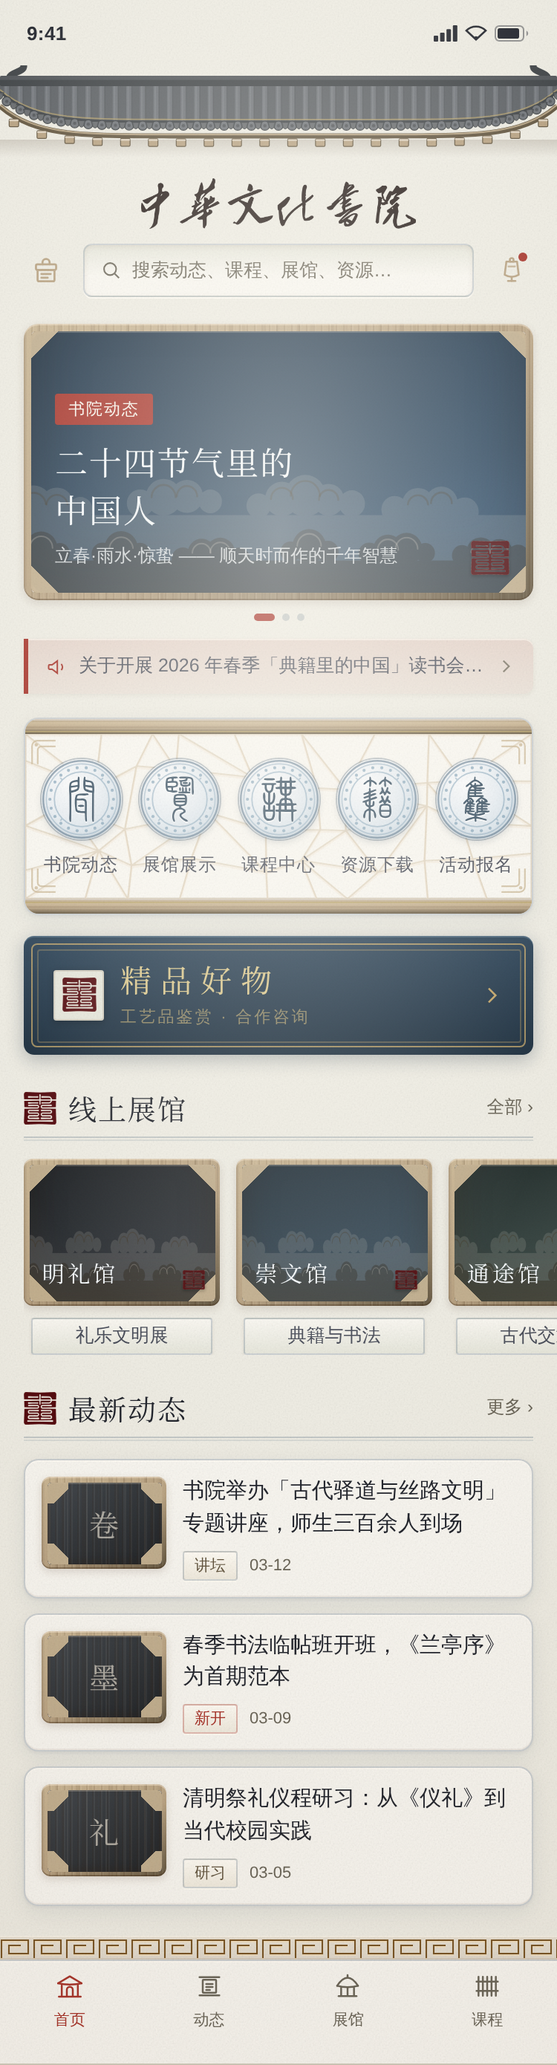
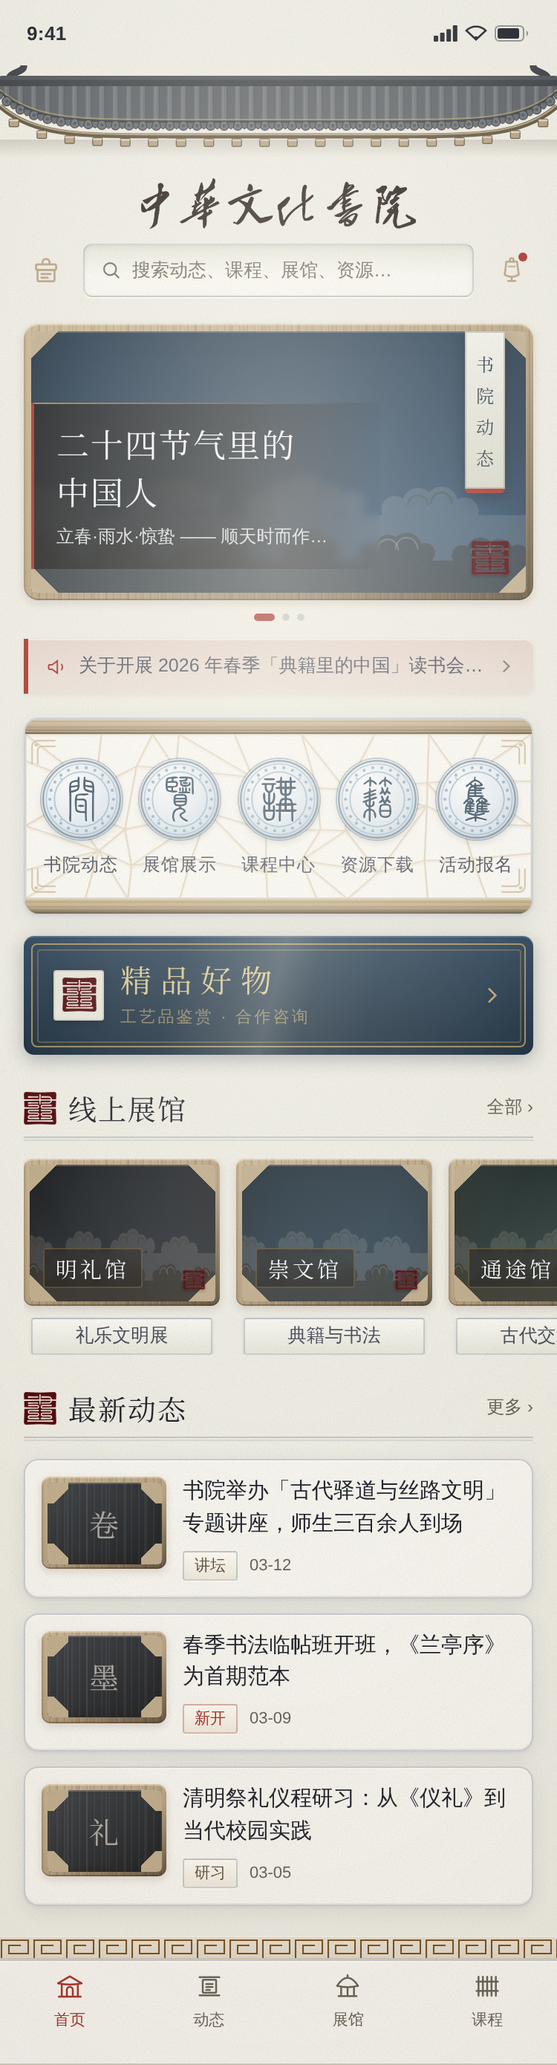
feat(design): 登录页屋顶拉开层次；加绢条/竖排题签/漆光；出「已上传封面图」对照页
1 登录页屋顶和背景糊在一起
   那组瓦色是当初配棕底时调的暖灰，这轮底色换成暖墨之后两者几乎同色。
   深色页上屋顶要比下面的"天"更亮、更偏青才分得开，并补了一道檐影。

2 新增三处点缀
   · 绢条：首图标题落在一条半透明的绢上，左侧一道朱边、上缘一道金线、
     右端向外化开。第一版做成四边齐整的半透明方块，压在照片上就是一块灰板；
     绢是"搭"上去的，右端虚掉才不像 UI 控件。
     它同时解决了真封面图上文字读不清的老问题。
   · 竖排题签：分类名竖写在一枚签上，末端一道朱砂。签在画心之上、尺寸很小，
     封面图再满也压不住。
   · 漆光：匾额加一道斜掠的反光，静态图里也能看出"黑漆"和"哑光木板"的区别。

3 新增 home-cover.html：同一页，画心里换成真封面图（程序生成的占位照片）
   这是为了回答"上传封面图之后设计会不会被全盖住"——有图有真相。
   被盖住的只有画心里的祥云与木纹底；裱边、四角包角、右下压角印、
   竖排题签、标题绢条、题签签条都还在。

过程中修掉三个真 bug：
· .banner > *:not(svg){position:relative} 写在后面，把题签的 position:absolute
  覆盖掉了，题签被挤成一条横贯的灰带。该规则已无用，删除。
· 画心里放了封面图时，内层的 .banner/.hall-cover/.art-hero/.nthumb 仍是不透明底，
  把照片整个盖住。改为有封面图时内层透明，并补一层暗角。
· 题签原在左上，和绢条重叠被压掉两个字；移到右上。
  末端的朱砂圆点在 vertical-rl 下跑到了文字上方，改用 border-bottom。

馆名顺带加了底衬——文字压在照片上本来就必须自带底，不管有没有封面图。

Claude-Session: https://claude.ai/code/session_01JpdC71poBgzCMJ9jsM6B8r

diff --git a/design/demo/v2/home-cover.html b/design/demo/v2/home-cover.html
@@ -3,12 +3,12 @@
 <head>
 <meta charset="utf-8">
 <meta name="viewport" content="width=375, initial-scale=1">
-<title>中华文化书院 · 首页（靛青备选）</title>
+<title>中华文化书院 · 首页（已上传封面图）</title>
 <link rel="stylesheet" href="shuyuan.css">
 </head>
 <body>
 
-<div class="phone theme-indigo" id="page">
+<div class="phone" id="page">
 
   <!-- 状态栏 -->
   <div class="statusbar">
@@ -347,7 +347,7 @@
   <div class="wrap">
 
     <!-- 首图 -->
-    <div class="mount mount--lg" style="margin-top:14px"><div class="mount-art"><div class="card banner">
+    <div class="mount mount--lg" style="margin-top:14px"><div class="mount-art"><img class="cover" src="sample/cover-hero.jpg" alt=""><div class="card banner">
       <!-- GEN:yun -->
     <svg class="shan" viewBox="0 0 375 120" preserveAspectRatio="none" aria-hidden="true"><g fill="#F6EEDF" opacity=".13"><rect x="-20" y="62.4" width="415" height="77.6"/><circle cx="-15.9" cy="59.4" r="8.5"/><circle cx="1.8" cy="54.2" r="13.8"/><circle cx="19.5" cy="54.5" r="12.5"/><circle cx="37.2" cy="58.4" r="9.4"/><circle cx="82.7" cy="53.6" r="10.2"/><circle cx="100.4" cy="49.2" r="13.6"/><circle cx="118.1" cy="48.5" r="12.2"/><circle cx="135.8" cy="52.2" r="8.8"/><circle cx="172.4" cy="55.5" r="9.2"/><circle cx="190.1" cy="50.5" r="12.8"/><circle cx="207.8" cy="48.1" r="15.5"/><circle cx="225.5" cy="51.1" r="11.8"/><circle cx="243.2" cy="53.9" r="9.9"/><circle cx="275.6" cy="58.3" r="10.1"/><circle cx="293.3" cy="54.5" r="12.2"/><circle cx="311.0" cy="53.6" r="12.4"/><circle cx="328.7" cy="59.9" r="10.6"/><circle cx="385.4" cy="55.8" r="8.5"/><circle cx="403.1" cy="49.6" r="13.6"/><circle cx="420.8" cy="56.4" r="9.5"/></g><path d="M-7.4,54.2 A9.3,9.3 0 0,1 11.1,54.2" fill="none" stroke="rgba(62,42,16,.30)" stroke-width="1.43" stroke-linecap="round" opacity=".85"/><path d="M11.6,54.5 A8.0,8.0 0 0,1 27.5,54.5" fill="none" stroke="rgba(62,42,16,.30)" stroke-width="1.43" stroke-linecap="round" opacity=".85"/><path d="M91.3,49.2 A9.1,9.1 0 0,1 109.5,49.2" fill="none" stroke="rgba(62,42,16,.30)" stroke-width="1.43" stroke-linecap="round" opacity=".85"/><path d="M110.4,48.5 A7.7,7.7 0 0,1 125.8,48.5" fill="none" stroke="rgba(62,42,16,.30)" stroke-width="1.43" stroke-linecap="round" opacity=".85"/><path d="M181.8,50.5 A8.3,8.3 0 0,1 198.4,50.5" fill="none" stroke="rgba(62,42,16,.30)" stroke-width="1.43" stroke-linecap="round" opacity=".85"/><path d="M196.8,48.1 A11.0,11.0 0 0,1 218.8,48.1" fill="none" stroke="rgba(62,42,16,.30)" stroke-width="1.43" stroke-linecap="round" opacity=".85"/><path d="M218.2,51.1 A7.3,7.3 0 0,1 232.8,51.1" fill="none" stroke="rgba(62,42,16,.30)" stroke-width="1.43" stroke-linecap="round" opacity=".85"/><path d="M285.6,54.5 A7.7,7.7 0 0,1 300.9,54.5" fill="none" stroke="rgba(62,42,16,.30)" stroke-width="1.43" stroke-linecap="round" opacity=".85"/><path d="M303.1,53.6 A7.9,7.9 0 0,1 318.9,53.6" fill="none" stroke="rgba(62,42,16,.30)" stroke-width="1.43" stroke-linecap="round" opacity=".85"/><path d="M394.0,49.6 A9.1,9.1 0 0,1 412.1,49.6" fill="none" stroke="rgba(62,42,16,.30)" stroke-width="1.43" stroke-linecap="round" opacity=".85"/><g fill="#231708" opacity=".30"><rect x="-20" y="96.0" width="415" height="44.0"/><circle cx="-6.6" cy="90.7" r="7.4"/><circle cx="7.6" cy="86.7" r="12.2"/><circle cx="21.7" cy="90.6" r="7.5"/><circle cx="54.1" cy="91.1" r="8.3"/><circle cx="68.2" cy="86.8" r="12.6"/><circle cx="82.4" cy="90.8" r="7.9"/><circle cx="115.0" cy="94.8" r="8.5"/><circle cx="129.2" cy="90.4" r="10.5"/><circle cx="143.4" cy="90.3" r="11.2"/><circle cx="157.5" cy="94.9" r="8.4"/><circle cx="196.6" cy="89.5" r="7.6"/><circle cx="210.8" cy="85.3" r="12.6"/><circle cx="224.9" cy="89.5" r="8.1"/><circle cx="256.3" cy="90.9" r="8.2"/><circle cx="270.5" cy="88.2" r="11.4"/><circle cx="284.6" cy="87.4" r="11.9"/><circle cx="298.8" cy="90.4" r="7.3"/><circle cx="326.6" cy="92.2" r="7.6"/><circle cx="340.8" cy="89.8" r="10.9"/><circle cx="354.9" cy="90.3" r="10.2"/><circle cx="369.1" cy="92.9" r="8.6"/></g><path d="M-1.0,86.7 A8.6,8.6 0 0,1 16.2,86.7" fill="none" stroke="rgba(246,238,223,.26)" stroke-width="1.14" stroke-linecap="round" opacity=".85"/><path d="M59.3,86.8 A9.0,9.0 0 0,1 77.2,86.8" fill="none" stroke="rgba(246,238,223,.26)" stroke-width="1.14" stroke-linecap="round" opacity=".85"/><path d="M122.2,90.4 A6.9,6.9 0 0,1 136.1,90.4" fill="none" stroke="rgba(246,238,223,.26)" stroke-width="1.14" stroke-linecap="round" opacity=".85"/><path d="M135.7,90.3 A7.6,7.6 0 0,1 151.0,90.3" fill="none" stroke="rgba(246,238,223,.26)" stroke-width="1.14" stroke-linecap="round" opacity=".85"/><path d="M201.7,85.3 A9.0,9.0 0 0,1 219.8,85.3" fill="none" stroke="rgba(246,238,223,.26)" stroke-width="1.14" stroke-linecap="round" opacity=".85"/><path d="M262.6,88.2 A7.8,7.8 0 0,1 278.3,88.2" fill="none" stroke="rgba(246,238,223,.26)" stroke-width="1.14" stroke-linecap="round" opacity=".85"/><path d="M276.3,87.4 A8.3,8.3 0 0,1 293.0,87.4" fill="none" stroke="rgba(246,238,223,.26)" stroke-width="1.14" stroke-linecap="round" opacity=".85"/><path d="M333.5,89.8 A7.3,7.3 0 0,1 348.0,89.8" fill="none" stroke="rgba(246,238,223,.26)" stroke-width="1.14" stroke-linecap="round" opacity=".85"/><path d="M348.3,90.3 A6.6,6.6 0 0,1 361.6,90.3" fill="none" stroke="rgba(246,238,223,.26)" stroke-width="1.14" stroke-linecap="round" opacity=".85"/></svg>
     <!-- /GEN:yun -->
@@ -587,7 +587,7 @@
     <div class="sec-rule"><i></i><i></i></div>
     <div class="halls">
       <div class="hall">
-        <div class="mount"><div class="mount-art"><div class="hall-cover h1">
+        <div class="mount"><div class="mount-art"><img class="cover" src="sample/cover-hall.jpg" alt=""><div class="hall-cover h1">
           <!-- GEN:yun -->
     <svg class="shan" viewBox="0 0 375 120" preserveAspectRatio="none" aria-hidden="true"><g fill="#F6EEDF" opacity=".13"><rect x="-20" y="62.4" width="415" height="77.6"/><circle cx="-15.9" cy="59.4" r="8.5"/><circle cx="1.8" cy="54.2" r="13.8"/><circle cx="19.5" cy="54.5" r="12.5"/><circle cx="37.2" cy="58.4" r="9.4"/><circle cx="82.7" cy="53.6" r="10.2"/><circle cx="100.4" cy="49.2" r="13.6"/><circle cx="118.1" cy="48.5" r="12.2"/><circle cx="135.8" cy="52.2" r="8.8"/><circle cx="172.4" cy="55.5" r="9.2"/><circle cx="190.1" cy="50.5" r="12.8"/><circle cx="207.8" cy="48.1" r="15.5"/><circle cx="225.5" cy="51.1" r="11.8"/><circle cx="243.2" cy="53.9" r="9.9"/><circle cx="275.6" cy="58.3" r="10.1"/><circle cx="293.3" cy="54.5" r="12.2"/><circle cx="311.0" cy="53.6" r="12.4"/><circle cx="328.7" cy="59.9" r="10.6"/><circle cx="385.4" cy="55.8" r="8.5"/><circle cx="403.1" cy="49.6" r="13.6"/><circle cx="420.8" cy="56.4" r="9.5"/></g><path d="M-7.4,54.2 A9.3,9.3 0 0,1 11.1,54.2" fill="none" stroke="rgba(62,42,16,.30)" stroke-width="1.43" stroke-linecap="round" opacity=".85"/><path d="M11.6,54.5 A8.0,8.0 0 0,1 27.5,54.5" fill="none" stroke="rgba(62,42,16,.30)" stroke-width="1.43" stroke-linecap="round" opacity=".85"/><path d="M91.3,49.2 A9.1,9.1 0 0,1 109.5,49.2" fill="none" stroke="rgba(62,42,16,.30)" stroke-width="1.43" stroke-linecap="round" opacity=".85"/><path d="M110.4,48.5 A7.7,7.7 0 0,1 125.8,48.5" fill="none" stroke="rgba(62,42,16,.30)" stroke-width="1.43" stroke-linecap="round" opacity=".85"/><path d="M181.8,50.5 A8.3,8.3 0 0,1 198.4,50.5" fill="none" stroke="rgba(62,42,16,.30)" stroke-width="1.43" stroke-linecap="round" opacity=".85"/><path d="M196.8,48.1 A11.0,11.0 0 0,1 218.8,48.1" fill="none" stroke="rgba(62,42,16,.30)" stroke-width="1.43" stroke-linecap="round" opacity=".85"/><path d="M218.2,51.1 A7.3,7.3 0 0,1 232.8,51.1" fill="none" stroke="rgba(62,42,16,.30)" stroke-width="1.43" stroke-linecap="round" opacity=".85"/><path d="M285.6,54.5 A7.7,7.7 0 0,1 300.9,54.5" fill="none" stroke="rgba(62,42,16,.30)" stroke-width="1.43" stroke-linecap="round" opacity=".85"/><path d="M303.1,53.6 A7.9,7.9 0 0,1 318.9,53.6" fill="none" stroke="rgba(62,42,16,.30)" stroke-width="1.43" stroke-linecap="round" opacity=".85"/><path d="M394.0,49.6 A9.1,9.1 0 0,1 412.1,49.6" fill="none" stroke="rgba(62,42,16,.30)" stroke-width="1.43" stroke-linecap="round" opacity=".85"/><g fill="#231708" opacity=".30"><rect x="-20" y="96.0" width="415" height="44.0"/><circle cx="-6.6" cy="90.7" r="7.4"/><circle cx="7.6" cy="86.7" r="12.2"/><circle cx="21.7" cy="90.6" r="7.5"/><circle cx="54.1" cy="91.1" r="8.3"/><circle cx="68.2" cy="86.8" r="12.6"/><circle cx="82.4" cy="90.8" r="7.9"/><circle cx="115.0" cy="94.8" r="8.5"/><circle cx="129.2" cy="90.4" r="10.5"/><circle cx="143.4" cy="90.3" r="11.2"/><circle cx="157.5" cy="94.9" r="8.4"/><circle cx="196.6" cy="89.5" r="7.6"/><circle cx="210.8" cy="85.3" r="12.6"/><circle cx="224.9" cy="89.5" r="8.1"/><circle cx="256.3" cy="90.9" r="8.2"/><circle cx="270.5" cy="88.2" r="11.4"/><circle cx="284.6" cy="87.4" r="11.9"/><circle cx="298.8" cy="90.4" r="7.3"/><circle cx="326.6" cy="92.2" r="7.6"/><circle cx="340.8" cy="89.8" r="10.9"/><circle cx="354.9" cy="90.3" r="10.2"/><circle cx="369.1" cy="92.9" r="8.6"/></g><path d="M-1.0,86.7 A8.6,8.6 0 0,1 16.2,86.7" fill="none" stroke="rgba(246,238,223,.26)" stroke-width="1.14" stroke-linecap="round" opacity=".85"/><path d="M59.3,86.8 A9.0,9.0 0 0,1 77.2,86.8" fill="none" stroke="rgba(246,238,223,.26)" stroke-width="1.14" stroke-linecap="round" opacity=".85"/><path d="M122.2,90.4 A6.9,6.9 0 0,1 136.1,90.4" fill="none" stroke="rgba(246,238,223,.26)" stroke-width="1.14" stroke-linecap="round" opacity=".85"/><path d="M135.7,90.3 A7.6,7.6 0 0,1 151.0,90.3" fill="none" stroke="rgba(246,238,223,.26)" stroke-width="1.14" stroke-linecap="round" opacity=".85"/><path d="M201.7,85.3 A9.0,9.0 0 0,1 219.8,85.3" fill="none" stroke="rgba(246,238,223,.26)" stroke-width="1.14" stroke-linecap="round" opacity=".85"/><path d="M262.6,88.2 A7.8,7.8 0 0,1 278.3,88.2" fill="none" stroke="rgba(246,238,223,.26)" stroke-width="1.14" stroke-linecap="round" opacity=".85"/><path d="M276.3,87.4 A8.3,8.3 0 0,1 293.0,87.4" fill="none" stroke="rgba(246,238,223,.26)" stroke-width="1.14" stroke-linecap="round" opacity=".85"/><path d="M333.5,89.8 A7.3,7.3 0 0,1 348.0,89.8" fill="none" stroke="rgba(246,238,223,.26)" stroke-width="1.14" stroke-linecap="round" opacity=".85"/><path d="M348.3,90.3 A6.6,6.6 0 0,1 361.6,90.3" fill="none" stroke="rgba(246,238,223,.26)" stroke-width="1.14" stroke-linecap="round" opacity=".85"/></svg>
     <!-- /GEN:yun -->
@@ -596,7 +596,7 @@
         <div class="tiqian">礼乐文明展</div>
       </div>
       <div class="hall">
-        <div class="mount"><div class="mount-art"><div class="hall-cover h2">
+        <div class="mount"><div class="mount-art"><img class="cover" src="sample/cover-hall.jpg" alt=""><div class="hall-cover h2">
           <!-- GEN:yun -->
     <svg class="shan" viewBox="0 0 375 120" preserveAspectRatio="none" aria-hidden="true"><g fill="#F6EEDF" opacity=".13"><rect x="-20" y="62.4" width="415" height="77.6"/><circle cx="-15.9" cy="59.4" r="8.5"/><circle cx="1.8" cy="54.2" r="13.8"/><circle cx="19.5" cy="54.5" r="12.5"/><circle cx="37.2" cy="58.4" r="9.4"/><circle cx="82.7" cy="53.6" r="10.2"/><circle cx="100.4" cy="49.2" r="13.6"/><circle cx="118.1" cy="48.5" r="12.2"/><circle cx="135.8" cy="52.2" r="8.8"/><circle cx="172.4" cy="55.5" r="9.2"/><circle cx="190.1" cy="50.5" r="12.8"/><circle cx="207.8" cy="48.1" r="15.5"/><circle cx="225.5" cy="51.1" r="11.8"/><circle cx="243.2" cy="53.9" r="9.9"/><circle cx="275.6" cy="58.3" r="10.1"/><circle cx="293.3" cy="54.5" r="12.2"/><circle cx="311.0" cy="53.6" r="12.4"/><circle cx="328.7" cy="59.9" r="10.6"/><circle cx="385.4" cy="55.8" r="8.5"/><circle cx="403.1" cy="49.6" r="13.6"/><circle cx="420.8" cy="56.4" r="9.5"/></g><path d="M-7.4,54.2 A9.3,9.3 0 0,1 11.1,54.2" fill="none" stroke="rgba(62,42,16,.30)" stroke-width="1.43" stroke-linecap="round" opacity=".85"/><path d="M11.6,54.5 A8.0,8.0 0 0,1 27.5,54.5" fill="none" stroke="rgba(62,42,16,.30)" stroke-width="1.43" stroke-linecap="round" opacity=".85"/><path d="M91.3,49.2 A9.1,9.1 0 0,1 109.5,49.2" fill="none" stroke="rgba(62,42,16,.30)" stroke-width="1.43" stroke-linecap="round" opacity=".85"/><path d="M110.4,48.5 A7.7,7.7 0 0,1 125.8,48.5" fill="none" stroke="rgba(62,42,16,.30)" stroke-width="1.43" stroke-linecap="round" opacity=".85"/><path d="M181.8,50.5 A8.3,8.3 0 0,1 198.4,50.5" fill="none" stroke="rgba(62,42,16,.30)" stroke-width="1.43" stroke-linecap="round" opacity=".85"/><path d="M196.8,48.1 A11.0,11.0 0 0,1 218.8,48.1" fill="none" stroke="rgba(62,42,16,.30)" stroke-width="1.43" stroke-linecap="round" opacity=".85"/><path d="M218.2,51.1 A7.3,7.3 0 0,1 232.8,51.1" fill="none" stroke="rgba(62,42,16,.30)" stroke-width="1.43" stroke-linecap="round" opacity=".85"/><path d="M285.6,54.5 A7.7,7.7 0 0,1 300.9,54.5" fill="none" stroke="rgba(62,42,16,.30)" stroke-width="1.43" stroke-linecap="round" opacity=".85"/><path d="M303.1,53.6 A7.9,7.9 0 0,1 318.9,53.6" fill="none" stroke="rgba(62,42,16,.30)" stroke-width="1.43" stroke-linecap="round" opacity=".85"/><path d="M394.0,49.6 A9.1,9.1 0 0,1 412.1,49.6" fill="none" stroke="rgba(62,42,16,.30)" stroke-width="1.43" stroke-linecap="round" opacity=".85"/><g fill="#231708" opacity=".30"><rect x="-20" y="96.0" width="415" height="44.0"/><circle cx="-6.6" cy="90.7" r="7.4"/><circle cx="7.6" cy="86.7" r="12.2"/><circle cx="21.7" cy="90.6" r="7.5"/><circle cx="54.1" cy="91.1" r="8.3"/><circle cx="68.2" cy="86.8" r="12.6"/><circle cx="82.4" cy="90.8" r="7.9"/><circle cx="115.0" cy="94.8" r="8.5"/><circle cx="129.2" cy="90.4" r="10.5"/><circle cx="143.4" cy="90.3" r="11.2"/><circle cx="157.5" cy="94.9" r="8.4"/><circle cx="196.6" cy="89.5" r="7.6"/><circle cx="210.8" cy="85.3" r="12.6"/><circle cx="224.9" cy="89.5" r="8.1"/><circle cx="256.3" cy="90.9" r="8.2"/><circle cx="270.5" cy="88.2" r="11.4"/><circle cx="284.6" cy="87.4" r="11.9"/><circle cx="298.8" cy="90.4" r="7.3"/><circle cx="326.6" cy="92.2" r="7.6"/><circle cx="340.8" cy="89.8" r="10.9"/><circle cx="354.9" cy="90.3" r="10.2"/><circle cx="369.1" cy="92.9" r="8.6"/></g><path d="M-1.0,86.7 A8.6,8.6 0 0,1 16.2,86.7" fill="none" stroke="rgba(246,238,223,.26)" stroke-width="1.14" stroke-linecap="round" opacity=".85"/><path d="M59.3,86.8 A9.0,9.0 0 0,1 77.2,86.8" fill="none" stroke="rgba(246,238,223,.26)" stroke-width="1.14" stroke-linecap="round" opacity=".85"/><path d="M122.2,90.4 A6.9,6.9 0 0,1 136.1,90.4" fill="none" stroke="rgba(246,238,223,.26)" stroke-width="1.14" stroke-linecap="round" opacity=".85"/><path d="M135.7,90.3 A7.6,7.6 0 0,1 151.0,90.3" fill="none" stroke="rgba(246,238,223,.26)" stroke-width="1.14" stroke-linecap="round" opacity=".85"/><path d="M201.7,85.3 A9.0,9.0 0 0,1 219.8,85.3" fill="none" stroke="rgba(246,238,223,.26)" stroke-width="1.14" stroke-linecap="round" opacity=".85"/><path d="M262.6,88.2 A7.8,7.8 0 0,1 278.3,88.2" fill="none" stroke="rgba(246,238,223,.26)" stroke-width="1.14" stroke-linecap="round" opacity=".85"/><path d="M276.3,87.4 A8.3,8.3 0 0,1 293.0,87.4" fill="none" stroke="rgba(246,238,223,.26)" stroke-width="1.14" stroke-linecap="round" opacity=".85"/><path d="M333.5,89.8 A7.3,7.3 0 0,1 348.0,89.8" fill="none" stroke="rgba(246,238,223,.26)" stroke-width="1.14" stroke-linecap="round" opacity=".85"/><path d="M348.3,90.3 A6.6,6.6 0 0,1 361.6,90.3" fill="none" stroke="rgba(246,238,223,.26)" stroke-width="1.14" stroke-linecap="round" opacity=".85"/></svg>
     <!-- /GEN:yun -->
@@ -605,7 +605,7 @@
         <div class="tiqian">典籍与书法</div>
       </div>
       <div class="hall">
-        <div class="mount"><div class="mount-art"><div class="hall-cover h3">
+        <div class="mount"><div class="mount-art"><img class="cover" src="sample/cover-hall.jpg" alt=""><div class="hall-cover h3">
           <!-- GEN:yun -->
     <svg class="shan" viewBox="0 0 375 120" preserveAspectRatio="none" aria-hidden="true"><g fill="#F6EEDF" opacity=".13"><rect x="-20" y="62.4" width="415" height="77.6"/><circle cx="-15.9" cy="59.4" r="8.5"/><circle cx="1.8" cy="54.2" r="13.8"/><circle cx="19.5" cy="54.5" r="12.5"/><circle cx="37.2" cy="58.4" r="9.4"/><circle cx="82.7" cy="53.6" r="10.2"/><circle cx="100.4" cy="49.2" r="13.6"/><circle cx="118.1" cy="48.5" r="12.2"/><circle cx="135.8" cy="52.2" r="8.8"/><circle cx="172.4" cy="55.5" r="9.2"/><circle cx="190.1" cy="50.5" r="12.8"/><circle cx="207.8" cy="48.1" r="15.5"/><circle cx="225.5" cy="51.1" r="11.8"/><circle cx="243.2" cy="53.9" r="9.9"/><circle cx="275.6" cy="58.3" r="10.1"/><circle cx="293.3" cy="54.5" r="12.2"/><circle cx="311.0" cy="53.6" r="12.4"/><circle cx="328.7" cy="59.9" r="10.6"/><circle cx="385.4" cy="55.8" r="8.5"/><circle cx="403.1" cy="49.6" r="13.6"/><circle cx="420.8" cy="56.4" r="9.5"/></g><path d="M-7.4,54.2 A9.3,9.3 0 0,1 11.1,54.2" fill="none" stroke="rgba(62,42,16,.30)" stroke-width="1.43" stroke-linecap="round" opacity=".85"/><path d="M11.6,54.5 A8.0,8.0 0 0,1 27.5,54.5" fill="none" stroke="rgba(62,42,16,.30)" stroke-width="1.43" stroke-linecap="round" opacity=".85"/><path d="M91.3,49.2 A9.1,9.1 0 0,1 109.5,49.2" fill="none" stroke="rgba(62,42,16,.30)" stroke-width="1.43" stroke-linecap="round" opacity=".85"/><path d="M110.4,48.5 A7.7,7.7 0 0,1 125.8,48.5" fill="none" stroke="rgba(62,42,16,.30)" stroke-width="1.43" stroke-linecap="round" opacity=".85"/><path d="M181.8,50.5 A8.3,8.3 0 0,1 198.4,50.5" fill="none" stroke="rgba(62,42,16,.30)" stroke-width="1.43" stroke-linecap="round" opacity=".85"/><path d="M196.8,48.1 A11.0,11.0 0 0,1 218.8,48.1" fill="none" stroke="rgba(62,42,16,.30)" stroke-width="1.43" stroke-linecap="round" opacity=".85"/><path d="M218.2,51.1 A7.3,7.3 0 0,1 232.8,51.1" fill="none" stroke="rgba(62,42,16,.30)" stroke-width="1.43" stroke-linecap="round" opacity=".85"/><path d="M285.6,54.5 A7.7,7.7 0 0,1 300.9,54.5" fill="none" stroke="rgba(62,42,16,.30)" stroke-width="1.43" stroke-linecap="round" opacity=".85"/><path d="M303.1,53.6 A7.9,7.9 0 0,1 318.9,53.6" fill="none" stroke="rgba(62,42,16,.30)" stroke-width="1.43" stroke-linecap="round" opacity=".85"/><path d="M394.0,49.6 A9.1,9.1 0 0,1 412.1,49.6" fill="none" stroke="rgba(62,42,16,.30)" stroke-width="1.43" stroke-linecap="round" opacity=".85"/><g fill="#231708" opacity=".30"><rect x="-20" y="96.0" width="415" height="44.0"/><circle cx="-6.6" cy="90.7" r="7.4"/><circle cx="7.6" cy="86.7" r="12.2"/><circle cx="21.7" cy="90.6" r="7.5"/><circle cx="54.1" cy="91.1" r="8.3"/><circle cx="68.2" cy="86.8" r="12.6"/><circle cx="82.4" cy="90.8" r="7.9"/><circle cx="115.0" cy="94.8" r="8.5"/><circle cx="129.2" cy="90.4" r="10.5"/><circle cx="143.4" cy="90.3" r="11.2"/><circle cx="157.5" cy="94.9" r="8.4"/><circle cx="196.6" cy="89.5" r="7.6"/><circle cx="210.8" cy="85.3" r="12.6"/><circle cx="224.9" cy="89.5" r="8.1"/><circle cx="256.3" cy="90.9" r="8.2"/><circle cx="270.5" cy="88.2" r="11.4"/><circle cx="284.6" cy="87.4" r="11.9"/><circle cx="298.8" cy="90.4" r="7.3"/><circle cx="326.6" cy="92.2" r="7.6"/><circle cx="340.8" cy="89.8" r="10.9"/><circle cx="354.9" cy="90.3" r="10.2"/><circle cx="369.1" cy="92.9" r="8.6"/></g><path d="M-1.0,86.7 A8.6,8.6 0 0,1 16.2,86.7" fill="none" stroke="rgba(246,238,223,.26)" stroke-width="1.14" stroke-linecap="round" opacity=".85"/><path d="M59.3,86.8 A9.0,9.0 0 0,1 77.2,86.8" fill="none" stroke="rgba(246,238,223,.26)" stroke-width="1.14" stroke-linecap="round" opacity=".85"/><path d="M122.2,90.4 A6.9,6.9 0 0,1 136.1,90.4" fill="none" stroke="rgba(246,238,223,.26)" stroke-width="1.14" stroke-linecap="round" opacity=".85"/><path d="M135.7,90.3 A7.6,7.6 0 0,1 151.0,90.3" fill="none" stroke="rgba(246,238,223,.26)" stroke-width="1.14" stroke-linecap="round" opacity=".85"/><path d="M201.7,85.3 A9.0,9.0 0 0,1 219.8,85.3" fill="none" stroke="rgba(246,238,223,.26)" stroke-width="1.14" stroke-linecap="round" opacity=".85"/><path d="M262.6,88.2 A7.8,7.8 0 0,1 278.3,88.2" fill="none" stroke="rgba(246,238,223,.26)" stroke-width="1.14" stroke-linecap="round" opacity=".85"/><path d="M276.3,87.4 A8.3,8.3 0 0,1 293.0,87.4" fill="none" stroke="rgba(246,238,223,.26)" stroke-width="1.14" stroke-linecap="round" opacity=".85"/><path d="M333.5,89.8 A7.3,7.3 0 0,1 348.0,89.8" fill="none" stroke="rgba(246,238,223,.26)" stroke-width="1.14" stroke-linecap="round" opacity=".85"/><path d="M348.3,90.3 A6.6,6.6 0 0,1 361.6,90.3" fill="none" stroke="rgba(246,238,223,.26)" stroke-width="1.14" stroke-linecap="round" opacity=".85"/></svg>
     <!-- /GEN:yun -->
@@ -623,21 +623,21 @@
     <div class="sec-rule"><i></i><i></i></div>
 
     <div class="card ncard">
-      <div class="mount mount--sm" style="width:84px;height:62px;flex:none"><div class="mount-art"><div class="nthumb song">卷</div></div></div>
+      <div class="mount mount--sm" style="width:84px;height:62px;flex:none"><div class="mount-art"><img class="cover" src="sample/cover-news.jpg" alt=""><div class="nthumb song" style="background:transparent;color:transparent">卷</div></div></div>
       <div class="nbody">
         <div class="ntitle">书院举办「古代驿道与丝路文明」专题讲座，师生三百余人到场</div>
         <div class="nmeta"><span class="pill">讲坛</span><span class="ndate">03-12</span></div>
       </div>
     </div>
     <div class="card ncard">
-      <div class="mount mount--sm" style="width:84px;height:62px;flex:none"><div class="mount-art"><div class="nthumb song">墨</div></div></div>
+      <div class="mount mount--sm" style="width:84px;height:62px;flex:none"><div class="mount-art"><img class="cover" src="sample/cover-news.jpg" alt=""><div class="nthumb song" style="background:transparent;color:transparent">墨</div></div></div>
       <div class="nbody">
         <div class="ntitle">春季书法临帖班开班，《兰亭序》为首期范本</div>
         <div class="nmeta"><span class="pill zhu">新开</span><span class="ndate">03-09</span></div>
       </div>
     </div>
     <div class="card ncard">
-      <div class="mount mount--sm" style="width:84px;height:62px;flex:none"><div class="mount-art"><div class="nthumb song">礼</div></div></div>
+      <div class="mount mount--sm" style="width:84px;height:62px;flex:none"><div class="mount-art"><img class="cover" src="sample/cover-news.jpg" alt=""><div class="nthumb song" style="background:transparent;color:transparent">礼</div></div></div>
       <div class="nbody">
         <div class="ntitle">清明祭礼仪程研习：从《仪礼》到当代校园实践</div>
         <div class="nmeta"><span class="pill">研习</span><span class="ndate">03-05</span></div>
@@ -670,9 +670,10 @@
 </div>
 
 <div class="note">
-  <b>备选：靛青</b> —— 骨架、版式、间距、字号<b>一个字都没改</b>，只换了「木」这一族颜色（栗褐 → 靛青）。<br>
-  拿它和主推方向对照着看：如果你觉得靛青更雅，那就把主色换掉；如果觉得木色更像"书院"，就走主推。<br>
-  这也顺带证明了整套是<b>可主题化</b>的——将来换季、换活动主题，只动色值，不动结构。
+  <b>同一页，画心里换成真封面图</b>（照片是程序生成的占位图，只为验证遮挡关系）<br>
+  <b>被盖住的</b>：画心里的祥云、木纹底——它们本来就在图的位置上。<br>
+  <b>盖不住的</b>：裱边木纹、四角包角、右下压角印、竖排题签、标题绢条、题签签条。<br>
+  这几件要么在画心之外，要么本来就该压在画上（压角印就是钤在画心上的）。
 </div>
 
 </body>

diff --git a/design/demo/v2/shuyuan.css b/design/demo/v2/shuyuan.css
@@ -417,6 +417,26 @@ body {
 }
 /* 画心里的东西必须撑满，否则裱边会从旁边露一大块出来 */
 .mount-art > * { flex: 1 1 auto; width: 100%; min-width: 0; }
+/* 真封面图：铺满画心、垫在最底层。包角(::before z2)、压角印(::after z3)、
+   绢条与竖排题签(z4) 都在它上面，所以图再满也压不住这几件。 */
+.mount-art:has(> img.cover) .banner,
+.mount-art:has(> img.cover) .hall-cover,
+.mount-art:has(> img.cover) .art-hero,
+.mount-art:has(> img.cover) .nthumb,
+.mount-art:has(> img.cover) .fig-box > i {
+  background: transparent;
+  box-shadow: none;
+}
+/* 图上的暗角：照片千差万别，没有它，浅色照片上的字就没法读 */
+.mount-art:has(> img.cover)::before {
+  box-shadow: inset 0 -46px 56px -20px rgba(20,16,12,.55),
+              inset 0 26px 34px -18px rgba(20,16,12,.35);
+}
+.mount-art > img.cover {
+  position: absolute; inset: 0; z-index: 0;
+  width: 100%; height: 100%; object-fit: cover;
+  flex: none;
+}
 
 /* 包角：装裱用的护角，四角压在画心上。
    它只吃掉四个角，主体内容一点不挡，但无论换成什么封面图都还在。 */
@@ -471,8 +491,49 @@ body {
   color: var(--wood-05);
   box-shadow: inset 0 1px 0 rgba(255,240,220,.22), inset 0 -24px 40px rgba(40,24,10,.26);
 }
+/* 绢条：标题不直接压在图上，而是落在一条半透明的绢上。
+   换成真封面图之后，这条绢就是文字能不能读清的保证。 */
+/* 绢条：左侧一道朱边、右端向外化开的半透明绢。
+   第一版做成了四边齐整的半透明方块，压在照片上就是一块灰板；
+   绢是"搭"上去的，右端要虚掉，左边有边饰，才不像 UI 控件。 */
+.silk {
+  position: relative; z-index: 4;
+  align-self: flex-start;
+  max-width: 78%;
+  margin-left: -16px;
+  padding: 12px 34px 13px 15px;
+  border-left: 2.5px solid var(--zhu);
+  background:
+    linear-gradient(94deg,
+      rgba(26,23,20,.80) 0%,
+      rgba(26,23,20,.68) 58%,
+      rgba(26,23,20,.30) 86%,
+      rgba(26,23,20,0) 100%);
+  backdrop-filter: blur(3px) saturate(112%);
+  -webkit-backdrop-filter: blur(3px) saturate(112%);
+}
+/* 绢上缘一道金线，也在右端化开 */
+.silk::before {
+  content: ''; position: absolute; left: 0; right: 0; top: 0; height: 1px;
+  background: linear-gradient(90deg, var(--gold) 0%, rgba(200,164,92,.35) 60%, transparent 92%);
+  opacity: .8;
+}
+/* 竖排题签：贴在首图左上角的一条签，分类名竖着写。
+   签在画心之上、尺寸很小，封面图再满也压不住它。 */
+/* 题签移到右上角：原来在左上，和绢条撞在一起，被压掉两个字 */
+.tag-v {
+  position: absolute; z-index: 5;
+  right: 14px; top: 0;
+  writing-mode: vertical-rl;
+  padding: 13px 5px 9px;
+  font-size: 12px; letter-spacing: 4px;
+  color: var(--wood-90);
+  background: linear-gradient(180deg, var(--paper-1), var(--paper-3));
+  border-radius: 0 0 3px 3px;
+  border-bottom: 3px solid var(--zhu);
+  box-shadow: 0 3px 10px rgba(0,0,0,.34), inset 0 0 0 1px rgba(122,110,85,.35);
+}
 .theme-indigo .banner { background: linear-gradient(165deg, #1F3346 0%, #2F4A63 62%, #3E6182 100%); }
-.banner > *:not(svg) { position: relative; }
 .banner .b-tag {
   align-self: flex-start;
   font-size: 11px; padding: 3px 9px; border-radius: 2px;
@@ -617,6 +678,19 @@ body {
   display: flex; align-items: center; gap: 11px;
   position: relative;
 }
+/* 漆光：一道斜掠过匾面的反光。黑漆匾在光下就是这样，
+   静态图里也能看出"漆"和"哑光木板"的区别。 */
+.plaque::after {
+  content: ''; position: absolute; inset: 0; border-radius: 7px;
+  pointer-events: none;
+  background: linear-gradient(104deg,
+    transparent 0 30%,
+    rgba(255,246,226,.10) 42%,
+    rgba(255,246,226,.19) 49%,
+    rgba(255,246,226,.06) 56%,
+    transparent 68% 100%);
+}
+
 /* 内框再套一根极细的线：双框是匾额和普通横幅的分水岭 */
 .plaque-inner::before {
   content: ''; position: absolute; inset: 2.5px;
@@ -670,7 +744,15 @@ body {
 .h1 { background: linear-gradient(160deg, var(--mo-90), var(--mo-60)); }
 .h2 { background: linear-gradient(160deg, var(--hall-qing-d), var(--hall-qing)); }
 .h3 { background: linear-gradient(160deg, var(--hall-lv-d), var(--hall-lv)); }
-.hall-cover span { color: var(--wood-05); font-size: 15px; letter-spacing: 2px; position: relative; }
+.hall-cover span {
+  color: var(--wood-05); font-size: 14.5px; letter-spacing: 2px;
+  position: relative; z-index: 4;
+  padding: 3px 9px; border-radius: 2px;
+  background: linear-gradient(135deg, rgba(38,34,30,.58), rgba(38,34,30,.40));
+  backdrop-filter: blur(5px);
+  -webkit-backdrop-filter: blur(5px);
+  box-shadow: inset 0 0 0 1px rgba(214,178,108,.26);
+}
 .hall-cover .shan { height: 72%; }
 .hall-name { font-size: 12.5px; color: var(--ink-2); margin-top: 7px; text-align: center; }
 
@@ -729,10 +811,17 @@ body {
 }
 .login .statusbar { color: var(--wood-20); width: 100%; }
 .login {
-  --tile:      #4B4641;
-  --tile-2:    #5C5751;
-  --tile-dark: #322E2A;
-  --tile-hi:   #7C756D;
+  /* 深色页上，屋顶要比下面的"天"更亮、更偏青，才分得开。
+     原来这组是配棕底时调的暖灰，现在底换成暖墨，两者几乎同色，屋顶就糊进背景里了。 */
+  --tile:      #6B757C;
+  --tile-2:    #808A91;
+  --tile-dark: #454E55;
+  --tile-hi:   #A6B0B6;
+}
+/* 再加一道檐影压在背景上，屋顶才是"盖在上面"而不是"画在上面" */
+.login .eave-shadow {
+  height: 18px; margin-top: -18px;
+  background: linear-gradient(180deg, rgba(0,0,0,.42), rgba(0,0,0,0));
 }
 .login .eave { flex: none; }
 .login-lattice {
@@ -826,7 +915,13 @@ body {
   position: relative; overflow: hidden;
 }
 .art-hero .ah-lattice { position: absolute; right: -24px; top: -24px; width: 156px; height: 156px; opacity: .45; }
-.art-hero .ah-title { color: var(--wood-05); font-size: 23px; line-height: 1.5; letter-spacing: 1px; position: relative; }
+.art-hero .ah-title { color: var(--wood-05); font-size: 22px; line-height: 1.5; letter-spacing: 1px; position: relative; }
+.art-hero .silk { margin-bottom: 0; }
+.banner .silk .b-title { font-size: 22px; line-height: 1.45; letter-spacing: 1px; }
+.banner .silk .b-desc {
+  margin-top: 6px; opacity: .85;
+  white-space: nowrap; overflow: hidden; text-overflow: ellipsis;
+}
 
 .art-body { padding: 18px 20px 0; }
 .art-meta {

diff --git a/design/demo/v2/home.html b/design/demo/v2/home.html
@@ -351,9 +351,11 @@
       <!-- GEN:yun -->
     <svg class="shan" viewBox="0 0 375 120" preserveAspectRatio="none" aria-hidden="true"><g fill="#F6EEDF" opacity=".13"><rect x="-20" y="62.4" width="415" height="77.6"/><circle cx="-15.9" cy="59.4" r="8.5"/><circle cx="1.8" cy="54.2" r="13.8"/><circle cx="19.5" cy="54.5" r="12.5"/><circle cx="37.2" cy="58.4" r="9.4"/><circle cx="82.7" cy="53.6" r="10.2"/><circle cx="100.4" cy="49.2" r="13.6"/><circle cx="118.1" cy="48.5" r="12.2"/><circle cx="135.8" cy="52.2" r="8.8"/><circle cx="172.4" cy="55.5" r="9.2"/><circle cx="190.1" cy="50.5" r="12.8"/><circle cx="207.8" cy="48.1" r="15.5"/><circle cx="225.5" cy="51.1" r="11.8"/><circle cx="243.2" cy="53.9" r="9.9"/><circle cx="275.6" cy="58.3" r="10.1"/><circle cx="293.3" cy="54.5" r="12.2"/><circle cx="311.0" cy="53.6" r="12.4"/><circle cx="328.7" cy="59.9" r="10.6"/><circle cx="385.4" cy="55.8" r="8.5"/><circle cx="403.1" cy="49.6" r="13.6"/><circle cx="420.8" cy="56.4" r="9.5"/></g><path d="M-7.4,54.2 A9.3,9.3 0 0,1 11.1,54.2" fill="none" stroke="rgba(62,42,16,.30)" stroke-width="1.43" stroke-linecap="round" opacity=".85"/><path d="M11.6,54.5 A8.0,8.0 0 0,1 27.5,54.5" fill="none" stroke="rgba(62,42,16,.30)" stroke-width="1.43" stroke-linecap="round" opacity=".85"/><path d="M91.3,49.2 A9.1,9.1 0 0,1 109.5,49.2" fill="none" stroke="rgba(62,42,16,.30)" stroke-width="1.43" stroke-linecap="round" opacity=".85"/><path d="M110.4,48.5 A7.7,7.7 0 0,1 125.8,48.5" fill="none" stroke="rgba(62,42,16,.30)" stroke-width="1.43" stroke-linecap="round" opacity=".85"/><path d="M181.8,50.5 A8.3,8.3 0 0,1 198.4,50.5" fill="none" stroke="rgba(62,42,16,.30)" stroke-width="1.43" stroke-linecap="round" opacity=".85"/><path d="M196.8,48.1 A11.0,11.0 0 0,1 218.8,48.1" fill="none" stroke="rgba(62,42,16,.30)" stroke-width="1.43" stroke-linecap="round" opacity=".85"/><path d="M218.2,51.1 A7.3,7.3 0 0,1 232.8,51.1" fill="none" stroke="rgba(62,42,16,.30)" stroke-width="1.43" stroke-linecap="round" opacity=".85"/><path d="M285.6,54.5 A7.7,7.7 0 0,1 300.9,54.5" fill="none" stroke="rgba(62,42,16,.30)" stroke-width="1.43" stroke-linecap="round" opacity=".85"/><path d="M303.1,53.6 A7.9,7.9 0 0,1 318.9,53.6" fill="none" stroke="rgba(62,42,16,.30)" stroke-width="1.43" stroke-linecap="round" opacity=".85"/><path d="M394.0,49.6 A9.1,9.1 0 0,1 412.1,49.6" fill="none" stroke="rgba(62,42,16,.30)" stroke-width="1.43" stroke-linecap="round" opacity=".85"/><g fill="#231708" opacity=".30"><rect x="-20" y="96.0" width="415" height="44.0"/><circle cx="-6.6" cy="90.7" r="7.4"/><circle cx="7.6" cy="86.7" r="12.2"/><circle cx="21.7" cy="90.6" r="7.5"/><circle cx="54.1" cy="91.1" r="8.3"/><circle cx="68.2" cy="86.8" r="12.6"/><circle cx="82.4" cy="90.8" r="7.9"/><circle cx="115.0" cy="94.8" r="8.5"/><circle cx="129.2" cy="90.4" r="10.5"/><circle cx="143.4" cy="90.3" r="11.2"/><circle cx="157.5" cy="94.9" r="8.4"/><circle cx="196.6" cy="89.5" r="7.6"/><circle cx="210.8" cy="85.3" r="12.6"/><circle cx="224.9" cy="89.5" r="8.1"/><circle cx="256.3" cy="90.9" r="8.2"/><circle cx="270.5" cy="88.2" r="11.4"/><circle cx="284.6" cy="87.4" r="11.9"/><circle cx="298.8" cy="90.4" r="7.3"/><circle cx="326.6" cy="92.2" r="7.6"/><circle cx="340.8" cy="89.8" r="10.9"/><circle cx="354.9" cy="90.3" r="10.2"/><circle cx="369.1" cy="92.9" r="8.6"/></g><path d="M-1.0,86.7 A8.6,8.6 0 0,1 16.2,86.7" fill="none" stroke="rgba(246,238,223,.26)" stroke-width="1.14" stroke-linecap="round" opacity=".85"/><path d="M59.3,86.8 A9.0,9.0 0 0,1 77.2,86.8" fill="none" stroke="rgba(246,238,223,.26)" stroke-width="1.14" stroke-linecap="round" opacity=".85"/><path d="M122.2,90.4 A6.9,6.9 0 0,1 136.1,90.4" fill="none" stroke="rgba(246,238,223,.26)" stroke-width="1.14" stroke-linecap="round" opacity=".85"/><path d="M135.7,90.3 A7.6,7.6 0 0,1 151.0,90.3" fill="none" stroke="rgba(246,238,223,.26)" stroke-width="1.14" stroke-linecap="round" opacity=".85"/><path d="M201.7,85.3 A9.0,9.0 0 0,1 219.8,85.3" fill="none" stroke="rgba(246,238,223,.26)" stroke-width="1.14" stroke-linecap="round" opacity=".85"/><path d="M262.6,88.2 A7.8,7.8 0 0,1 278.3,88.2" fill="none" stroke="rgba(246,238,223,.26)" stroke-width="1.14" stroke-linecap="round" opacity=".85"/><path d="M276.3,87.4 A8.3,8.3 0 0,1 293.0,87.4" fill="none" stroke="rgba(246,238,223,.26)" stroke-width="1.14" stroke-linecap="round" opacity=".85"/><path d="M333.5,89.8 A7.3,7.3 0 0,1 348.0,89.8" fill="none" stroke="rgba(246,238,223,.26)" stroke-width="1.14" stroke-linecap="round" opacity=".85"/><path d="M348.3,90.3 A6.6,6.6 0 0,1 361.6,90.3" fill="none" stroke="rgba(246,238,223,.26)" stroke-width="1.14" stroke-linecap="round" opacity=".85"/></svg>
     <!-- /GEN:yun -->
-      <span class="b-tag">书院动态</span>
-      <div class="b-title song">二十四节气里的<br>中国人</div>
-      <div class="b-desc">立春·雨水·惊蛰 —— 顺天时而作的千年智慧</div>
+      <span class="tag-v song">书院动态</span>
+      <div class="silk">
+        <div class="b-title song">二十四节气里的<br>中国人</div>
+        <div class="b-desc">立春·雨水·惊蛰 —— 顺天时而作的千年智慧</div>
+      </div>
     </div></div></div>
     <div class="bdots"><i class="bdot on"></i><i class="bdot"></i><i class="bdot"></i></div>
 

diff --git a/design/demo/v2/news-detail.html b/design/demo/v2/news-detail.html
@@ -294,7 +294,8 @@
     <!-- GEN:yun -->
     <svg class="shan" viewBox="0 0 375 120" preserveAspectRatio="none" aria-hidden="true"><g fill="#F6EEDF" opacity=".13"><rect x="-20" y="62.4" width="415" height="77.6"/><circle cx="-15.9" cy="59.4" r="8.5"/><circle cx="1.8" cy="54.2" r="13.8"/><circle cx="19.5" cy="54.5" r="12.5"/><circle cx="37.2" cy="58.4" r="9.4"/><circle cx="82.7" cy="53.6" r="10.2"/><circle cx="100.4" cy="49.2" r="13.6"/><circle cx="118.1" cy="48.5" r="12.2"/><circle cx="135.8" cy="52.2" r="8.8"/><circle cx="172.4" cy="55.5" r="9.2"/><circle cx="190.1" cy="50.5" r="12.8"/><circle cx="207.8" cy="48.1" r="15.5"/><circle cx="225.5" cy="51.1" r="11.8"/><circle cx="243.2" cy="53.9" r="9.9"/><circle cx="275.6" cy="58.3" r="10.1"/><circle cx="293.3" cy="54.5" r="12.2"/><circle cx="311.0" cy="53.6" r="12.4"/><circle cx="328.7" cy="59.9" r="10.6"/><circle cx="385.4" cy="55.8" r="8.5"/><circle cx="403.1" cy="49.6" r="13.6"/><circle cx="420.8" cy="56.4" r="9.5"/></g><path d="M-7.4,54.2 A9.3,9.3 0 0,1 11.1,54.2" fill="none" stroke="rgba(62,42,16,.30)" stroke-width="1.43" stroke-linecap="round" opacity=".85"/><path d="M11.6,54.5 A8.0,8.0 0 0,1 27.5,54.5" fill="none" stroke="rgba(62,42,16,.30)" stroke-width="1.43" stroke-linecap="round" opacity=".85"/><path d="M91.3,49.2 A9.1,9.1 0 0,1 109.5,49.2" fill="none" stroke="rgba(62,42,16,.30)" stroke-width="1.43" stroke-linecap="round" opacity=".85"/><path d="M110.4,48.5 A7.7,7.7 0 0,1 125.8,48.5" fill="none" stroke="rgba(62,42,16,.30)" stroke-width="1.43" stroke-linecap="round" opacity=".85"/><path d="M181.8,50.5 A8.3,8.3 0 0,1 198.4,50.5" fill="none" stroke="rgba(62,42,16,.30)" stroke-width="1.43" stroke-linecap="round" opacity=".85"/><path d="M196.8,48.1 A11.0,11.0 0 0,1 218.8,48.1" fill="none" stroke="rgba(62,42,16,.30)" stroke-width="1.43" stroke-linecap="round" opacity=".85"/><path d="M218.2,51.1 A7.3,7.3 0 0,1 232.8,51.1" fill="none" stroke="rgba(62,42,16,.30)" stroke-width="1.43" stroke-linecap="round" opacity=".85"/><path d="M285.6,54.5 A7.7,7.7 0 0,1 300.9,54.5" fill="none" stroke="rgba(62,42,16,.30)" stroke-width="1.43" stroke-linecap="round" opacity=".85"/><path d="M303.1,53.6 A7.9,7.9 0 0,1 318.9,53.6" fill="none" stroke="rgba(62,42,16,.30)" stroke-width="1.43" stroke-linecap="round" opacity=".85"/><path d="M394.0,49.6 A9.1,9.1 0 0,1 412.1,49.6" fill="none" stroke="rgba(62,42,16,.30)" stroke-width="1.43" stroke-linecap="round" opacity=".85"/><g fill="#231708" opacity=".30"><rect x="-20" y="96.0" width="415" height="44.0"/><circle cx="-6.6" cy="90.7" r="7.4"/><circle cx="7.6" cy="86.7" r="12.2"/><circle cx="21.7" cy="90.6" r="7.5"/><circle cx="54.1" cy="91.1" r="8.3"/><circle cx="68.2" cy="86.8" r="12.6"/><circle cx="82.4" cy="90.8" r="7.9"/><circle cx="115.0" cy="94.8" r="8.5"/><circle cx="129.2" cy="90.4" r="10.5"/><circle cx="143.4" cy="90.3" r="11.2"/><circle cx="157.5" cy="94.9" r="8.4"/><circle cx="196.6" cy="89.5" r="7.6"/><circle cx="210.8" cy="85.3" r="12.6"/><circle cx="224.9" cy="89.5" r="8.1"/><circle cx="256.3" cy="90.9" r="8.2"/><circle cx="270.5" cy="88.2" r="11.4"/><circle cx="284.6" cy="87.4" r="11.9"/><circle cx="298.8" cy="90.4" r="7.3"/><circle cx="326.6" cy="92.2" r="7.6"/><circle cx="340.8" cy="89.8" r="10.9"/><circle cx="354.9" cy="90.3" r="10.2"/><circle cx="369.1" cy="92.9" r="8.6"/></g><path d="M-1.0,86.7 A8.6,8.6 0 0,1 16.2,86.7" fill="none" stroke="rgba(246,238,223,.26)" stroke-width="1.14" stroke-linecap="round" opacity=".85"/><path d="M59.3,86.8 A9.0,9.0 0 0,1 77.2,86.8" fill="none" stroke="rgba(246,238,223,.26)" stroke-width="1.14" stroke-linecap="round" opacity=".85"/><path d="M122.2,90.4 A6.9,6.9 0 0,1 136.1,90.4" fill="none" stroke="rgba(246,238,223,.26)" stroke-width="1.14" stroke-linecap="round" opacity=".85"/><path d="M135.7,90.3 A7.6,7.6 0 0,1 151.0,90.3" fill="none" stroke="rgba(246,238,223,.26)" stroke-width="1.14" stroke-linecap="round" opacity=".85"/><path d="M201.7,85.3 A9.0,9.0 0 0,1 219.8,85.3" fill="none" stroke="rgba(246,238,223,.26)" stroke-width="1.14" stroke-linecap="round" opacity=".85"/><path d="M262.6,88.2 A7.8,7.8 0 0,1 278.3,88.2" fill="none" stroke="rgba(246,238,223,.26)" stroke-width="1.14" stroke-linecap="round" opacity=".85"/><path d="M276.3,87.4 A8.3,8.3 0 0,1 293.0,87.4" fill="none" stroke="rgba(246,238,223,.26)" stroke-width="1.14" stroke-linecap="round" opacity=".85"/><path d="M333.5,89.8 A7.3,7.3 0 0,1 348.0,89.8" fill="none" stroke="rgba(246,238,223,.26)" stroke-width="1.14" stroke-linecap="round" opacity=".85"/><path d="M348.3,90.3 A6.6,6.6 0 0,1 361.6,90.3" fill="none" stroke="rgba(246,238,223,.26)" stroke-width="1.14" stroke-linecap="round" opacity=".85"/></svg>
     <!-- /GEN:yun -->
-    <div class="ah-title song">古代驿道与丝路文明<br>专题讲座在书院举行</div>
+    <span class="tag-v song">讲坛</span>
+    <div class="silk"><div class="ah-title song">古代驿道与丝路文明<br>专题讲座在书院举行</div></div>
   </div></div></div>
 
   <div class="art-body">
